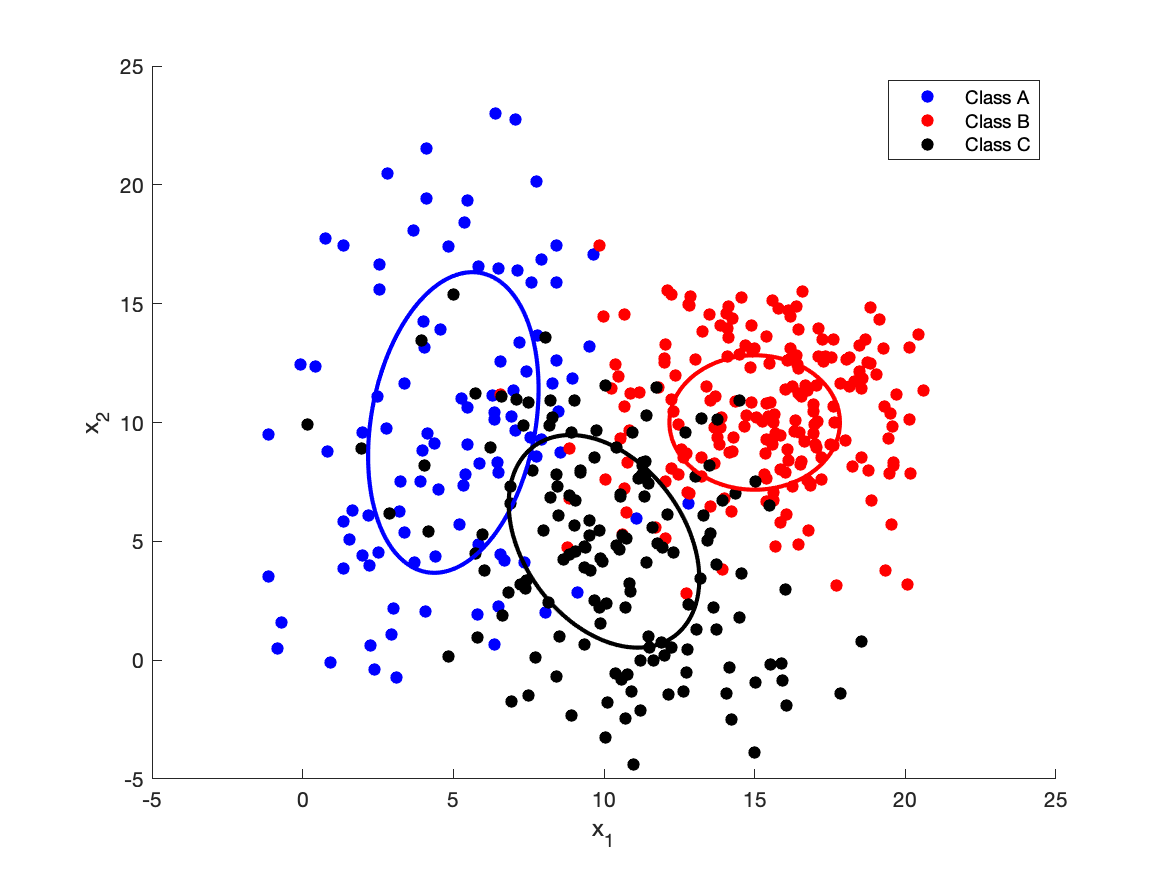
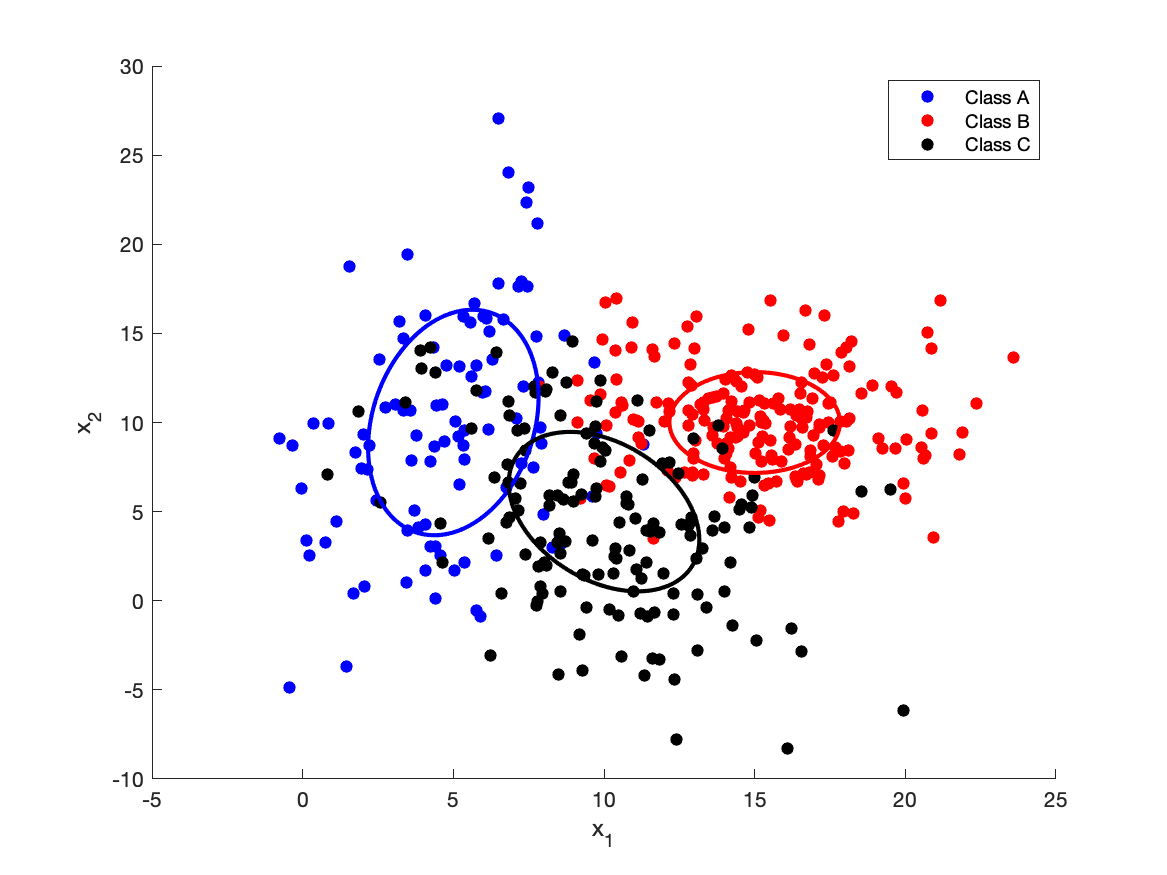
Create class object

diff --git a/main.m b/main.m
@@ -1,12 +1,13 @@
-class_a = generateData(200, [5 10]', [8 0; 0 4]);
+% Part 2: Generating Clusters
+class_a = ClassData(200, [5 10]', [8 0; 0 4]);
 [class_a_x, class_a_y] = drawEllipse([5 10]', [8 0; 0 4]);
-class_b = generateData(200, [10, 15]', [8 0; 0 4]);
+class_b = ClassData(200, [10, 15]', [8 0; 0 4]);
 [class_b_x, class_b_y] = drawEllipse([10, 15]', [8 0; 0 4]);
 
 figure;
 hold on;
-scatter(class_a(1, :), class_a(2, :), 'b', 'filled');
-scatter(class_b(1, :), class_b(2, :), 'r', 'filled');
+scatter(class_a.Data(1, :), class_a.Data(2, :), 'b', 'filled');
+scatter(class_b.Data(1, :), class_b.Data(2, :), 'r', 'filled');
 
 plot(class_a_x, class_a_y, 'b-', 'LineWidth', 2);	
 plot(class_b_x, class_b_y, 'r-', 'LineWidth', 2);	
@@ -17,19 +18,19 @@ legend('Class A', 'Class B');
 saveas(gcf, "img/class_a_b.png");
 hold off;
 
-class_c = generateData(100, [5 10]', [8 4; 4 40]);
+class_c = ClassData(100, [5 10]', [8 4; 4 40]);
 [class_c_x, class_c_y] = drawEllipse([5 10]', [8 4; 4 40]);
-class_d = generateData(200, [15 10]', [8 0; 0 8]);
+class_d = ClassData(200, [15 10]', [8 0; 0 8]);
 [class_d_x, class_d_y] = drawEllipse([15 10]', [8 0; 0 8]);
-class_e = generateData(150, [10 5]', [10 -5; -5 20]);
+class_e = ClassData(150, [10 5]', [10 -5; -5 20]);
 [class_e_x, class_e_y] = drawEllipse([10 5]', [10 -5; -5 20]);
 
 
 figure;
 hold on; 
-scatter(class_c(1, :), class_c(2, :), 'b', 'filled');
-scatter(class_d(1, :), class_d(2, :), 'r', 'filled');
-scatter(class_e(1, :), class_e(2, :), 'black', 'filled');
+scatter(class_c.Data(1, :), class_c.Data(2, :), 'b', 'filled');
+scatter(class_d.Data(1, :), class_d.Data(2, :), 'r', 'filled');
+scatter(class_e.Data(1, :), class_e.Data(2, :), 'black', 'filled');
 
 plot(class_c_x, class_c_y, 'b-', 'LineWidth', 2);
 plot(class_d_x, class_d_y, 'r-', 'LineWidth', 2);
@@ -40,4 +41,11 @@ ylabel('x_2');
 legend('Class A', 'Class B', 'Class C');
 saveas(gcf, "img/class_c_d_e.png");
 hold off;
+
+% Part 3: Classifiers
+
+
+% Minimum Euclidean Distance
+
+% mid = mean(
 

diff --git a/ClassData.m b/ClassData.m
@@ -1,0 +1,62 @@
+classdef ClassData
+    properties
+        N;
+        Mean;
+        Covariance;
+        Data;
+    end
+    
+    methods
+        function obj = ClassData(N, mean, covariance)
+            obj.N = N;
+            obj.Mean = mean;
+            obj.Covariance = covariance;
+     
+            % Generate bivariate normal distributions
+            X = rand(N, 2);
+            % Box-Muller Transform
+            Z1 = sqrt(-2*log(X(:, 1))).*cos(2*pi*X(:, 2));
+            Z2 = sqrt(-2*log(X(:, 1))).*sin(2*pi*X(:, 2));
+            X = [Z1 Z2];
+
+            obj.Data = [X*chol(covariance)]' + mean;
+        end
+    end
+       
+     methods (Static)
+         function [x, y] = drawEllipse(m, covariance)
+
+            [V, ~] = eig(covariance);
+            V = V./norm(V);
+            e = eig(covariance);
+
+
+            % Get points of vertices 
+            % Get value and index of major axis
+            [max_lambda, max_I] = max(e);
+            major1 = m + sqrt(max_lambda).*V(:, max_I);
+            major2 = m - sqrt(max_lambda).*V(:, max_I);
+            % Get value of minor axis
+            min_lambda = min(e);
+            c = sqrt(max_lambda - min_lambda);
+            eccentricity = c/sqrt(max_lambda);
+            num_points = 300;
+            % Make equations:
+            x1 = major1(1);
+            x2 = major2(1);
+            y1 = major1(2);
+            y2 = major2(2);
+            a = (1/2) * sqrt((x2 - x1) ^ 2 + (y2 - y1) ^ 2);
+            b = a * sqrt(1-eccentricity^2);
+            t = linspace(0, 2 * pi, num_points); % Absolute angle parameter
+            X = a * cos(t);
+            Y = b * sin(t);
+            % Compute angles relative to (x1, y1).
+            angles = atan2(y2 - y1, x2 - x1);
+            x = (x1 + x2) / 2 + X * cos(angles) - Y * sin(angles);
+            y = (y1 + y2) / 2 + X * sin(angles) + Y * cos(angles);
+            end
+     end
+
+end
+    
